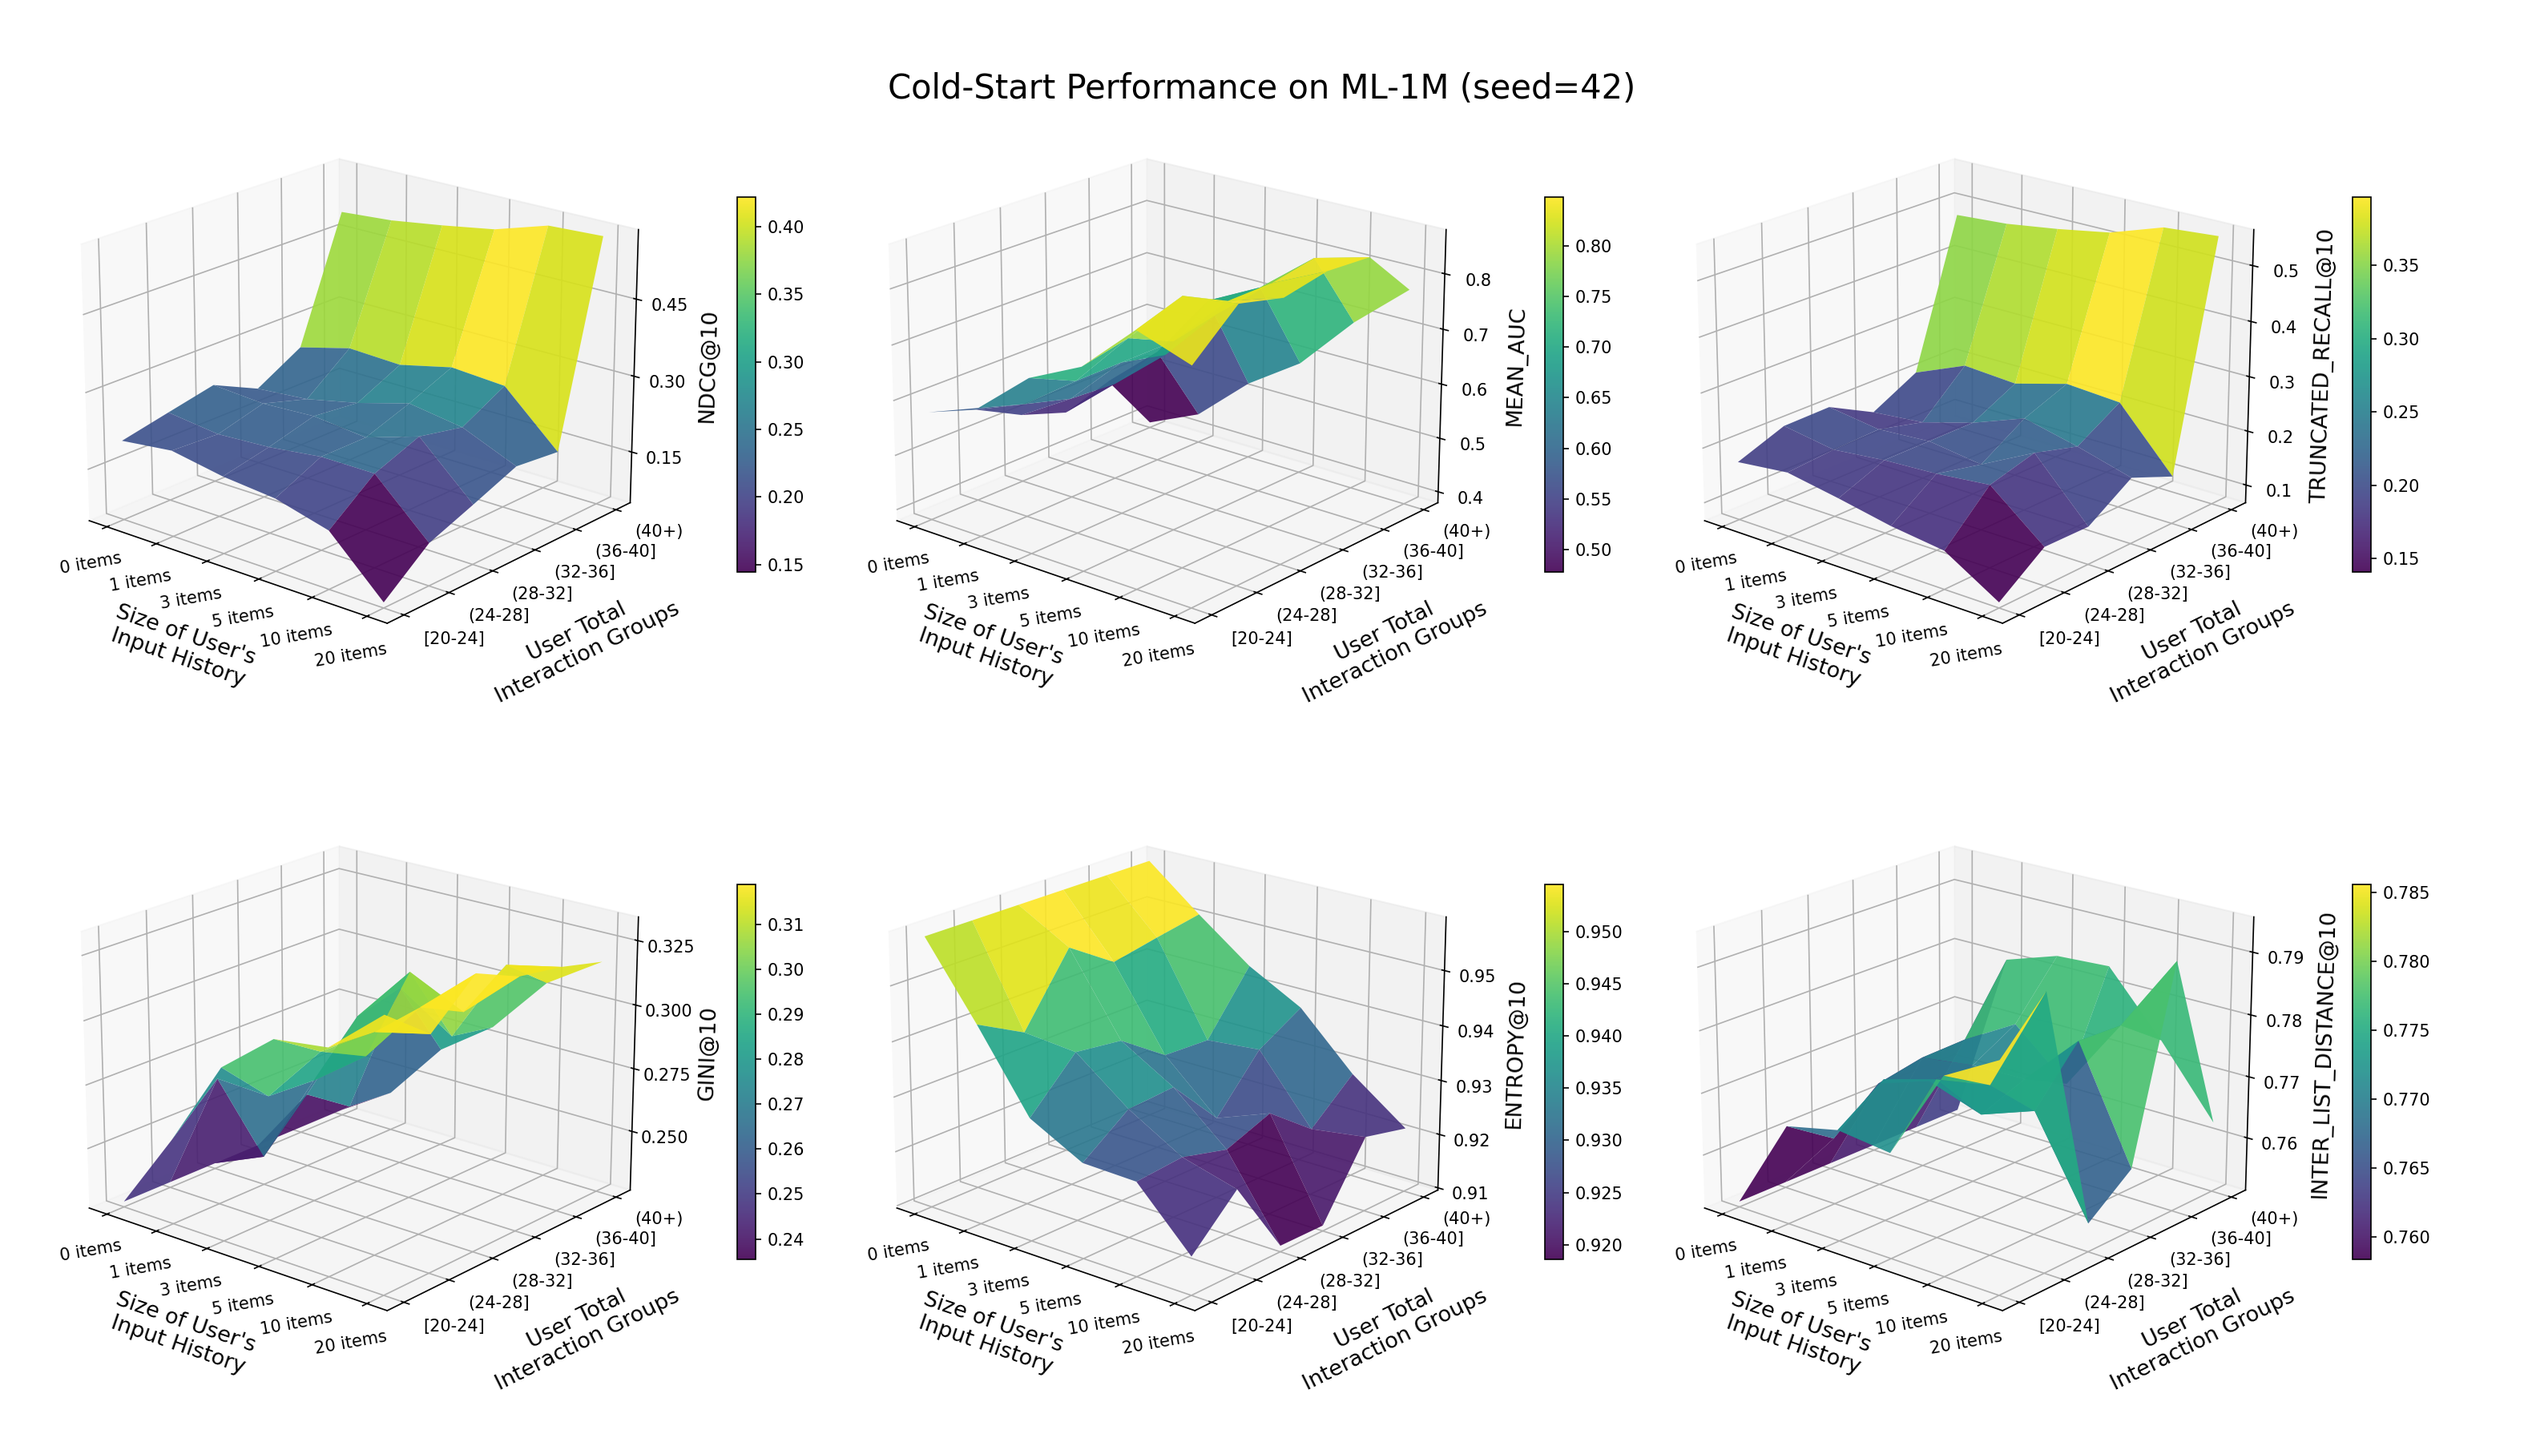
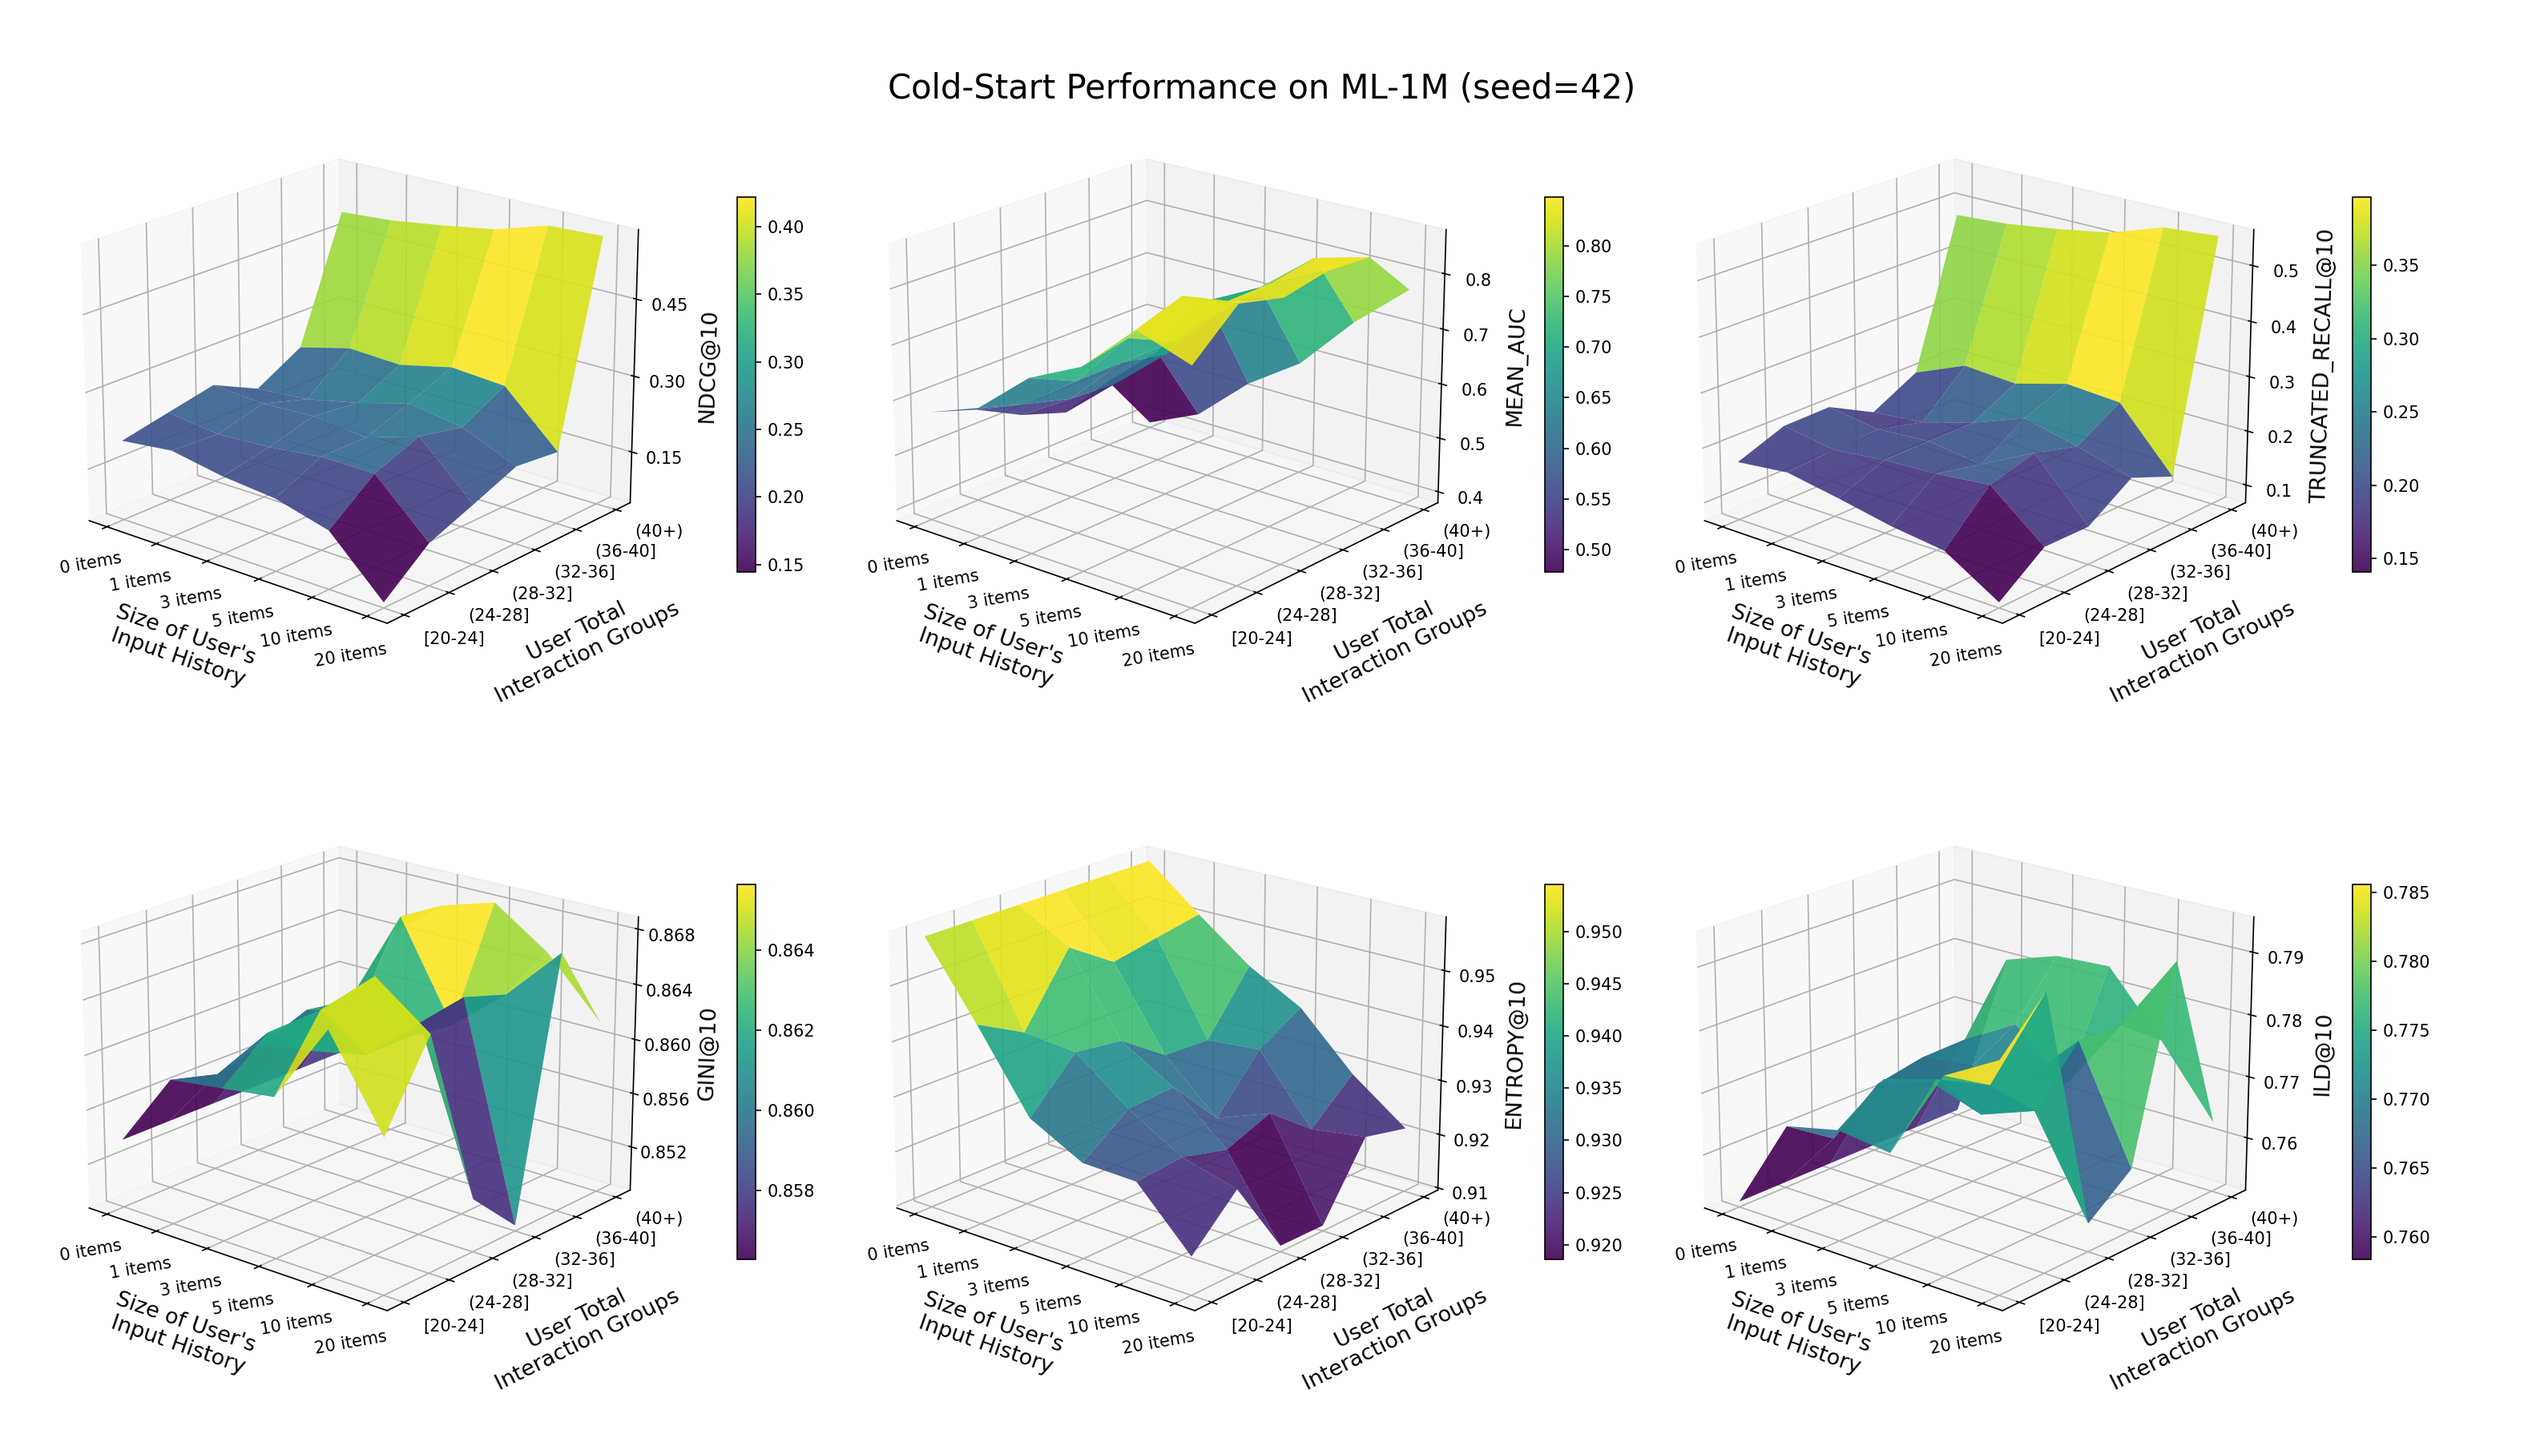
fix diversity metrics usage for cold-start, update results with correct data

Changed region(s): [[0.0311, 0.6222, 0.28, 0.84], [0.9022, 0.6533, 0.9333, 0.7778]]

diff --git a/cold_start.py b/cold_start.py
@@ -65,9 +65,9 @@ def run_cold_start_experiment(
                     total_metrics[f"NDCG@{k}"] += eval_metrics.ndcg(recommendations[u], split["ground_truth_items"][u], k)
                     if "item_tag_mapping" in data.data and len(data.data["item_tag_mapping"]) > 0:
                         category_recommendations = eval_metrics.prepare_category_counts(recommendations[u], data.data["item_tag_mapping"], k)
-                        total_metrics[f"INTER_LIST_DISTANCE@{k}"] += eval_metrics.inter_list_jaccard_distance(recommendations[u], data.data["item_tag_mapping"], k)
-                        total_metrics[f"ENTROPY@{k}"] += eval_metrics.entropy(category_recommendations)
-                        total_metrics[f"GINI@{k}"] += eval_metrics.gini(category_recommendations)
+                        total_metrics[f"ILD@{k}"] += eval_metrics.intra_list_jaccard_distance(recommendations[u], data.data["item_tag_mapping"], k)
+                        total_metrics[f"ENTROPY@{k}"] += eval_metrics.entropy(list(category_recommendations.values()))
+                        total_metrics[f"GINI@{k}"] += eval_metrics.gini(list(category_recommendations.values()))
                 
             metrics[bin_key][coldness_key]["GLOBAL_AUC"] = eval_metrics.auc(global_auc_labels, global_auc_scores)
             num_users = cold_start_stats[bin_key]["#users"][coldness_key]

diff --git a/plot_cold_start.py b/plot_cold_start.py
@@ -9,12 +9,13 @@ from plot import plot_cold_start_data
 Here is how you can run this script
 python plot_cold_start.py \
     --dataset ml-1m --seed 42 \
-    --metrics NDCG@10 \
+    --metrics \
+    NDCG@10 \
     MEAN_AUC \
     TRUNCATED_RECALL@10 \
     GINI@10 \
     ENTROPY@10 \
-    INTER_LIST_DISTANCE@10
+    ILD@10
 """
 
 def load_json(path):

diff --git a/eval_metrics.py b/eval_metrics.py
@@ -163,7 +163,7 @@ def prepare_category_counts(
     recommended_ranked_list: list[int], 
     item_tag_mapping: dict, 
     k: int
-) -> list[int]:
+) -> dict:
     """
     Prepare category counts from recommended items for entropy and gini calculation.
     

diff --git a/hyper_params.py b/hyper_params.py
@@ -104,4 +104,3 @@ hyper_params = {
         "gen": "weak"
     }
 }
-
